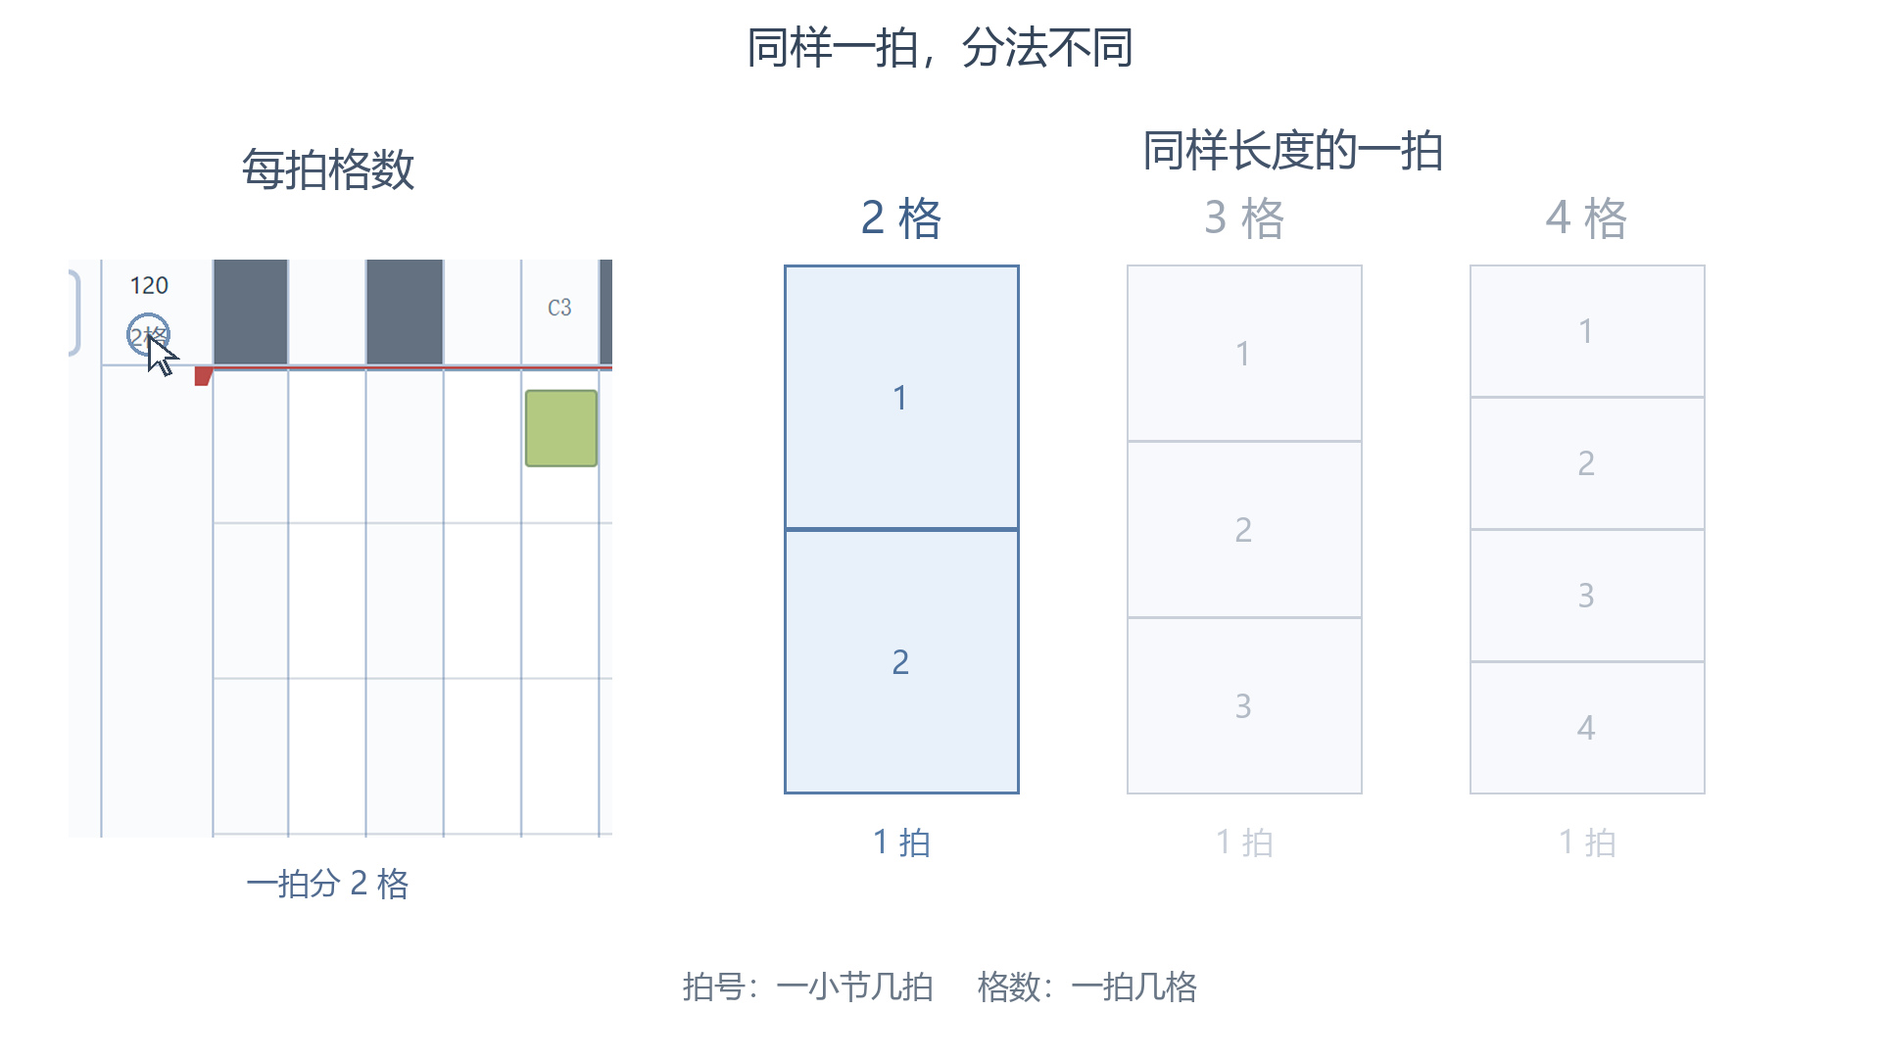
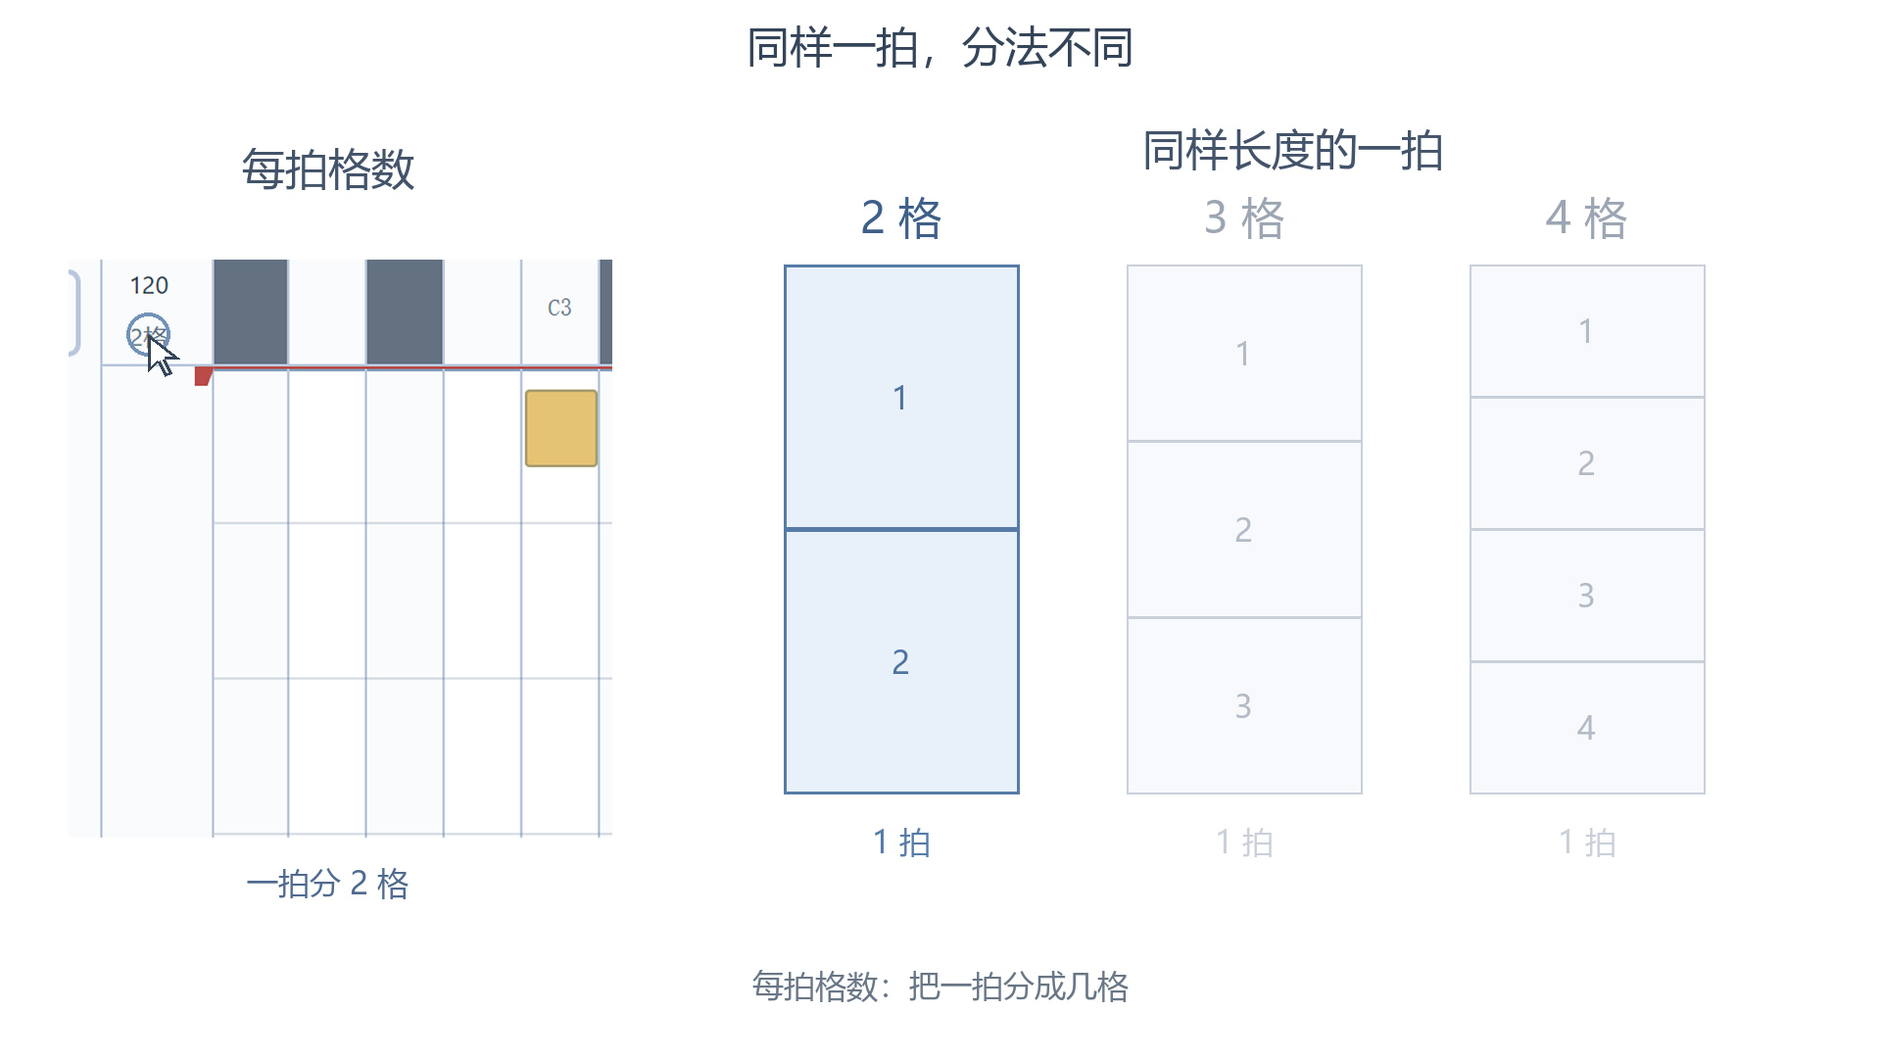
Load the authored starter score and simplify animated editing guides

Changed region(s): [[0.3438, 0.9167, 0.6562, 0.9472], [0.2812, 0.3667, 0.3438, 0.4583]]

diff --git a/src/workstation/app/web-demo.ts b/src/workstation/app/web-demo.ts
@@ -1,9 +1,11 @@
 import { createWebDemoModel, WEB_MAX_FILE_BYTES } from './web-demo-model.ts';
+import { createWebExampleModel } from './web-demo-example.ts';
+import starterExample from '../../../website/examples/starter.json';
 import { createMidiProjectLibrary } from './midi-project.ts';
 import { mountMelodyWorkspace } from '../modules/ui-rendering/melody-workspace.ts';
 import { createPhraseCompositionTransport } from '../modules/ui-rendering/phrase-composition-transport.ts';
 import { createBrowserSoundRuntime } from '../modules/sound-runtime/public.ts';
-import { phraseDurationSeconds } from '../contracts/phrase-time.ts';
+import { phraseDurationSeconds, phraseBeatSeconds, phraseHeldSeconds } from '../contracts/phrase-time.ts';
 import type { PhraseBody } from '../contracts/phrase.ts';
 import type { PlaylistTransportState } from '../modules/ui-rendering/playlist-transport.ts';
 import './web-demo.css';
@@ -33,13 +35,14 @@ app.innerHTML = `<section class="web-studio" aria-label="简乐在线编曲">
 const q = <T extends HTMLElement = HTMLElement>(selector: string) => app.querySelector<T>(selector)!;
 const name = q<HTMLInputElement>('.web-name'), play = q<HTMLButtonElement>('.web-play');
 const status = q('.web-status'), file = q<HTMLInputElement>('.web-file');
-let model = createWebDemoModel();
+let model = createWebExampleModel(starterExample);
 let runtime = webSound();
 let editor: ReturnType<typeof mountMelodyWorkspace> | undefined;
 let transport: ReturnType<typeof createPhraseCompositionTransport> | undefined;
 let state: PlaylistTransportState = { playing: false, preparing: false, position: 0, rate: 1 };
 let temporary: PhraseBody | undefined, family: string | undefined;
 let dirty = false, busy = false, frame = 0, disposed = false;
+let showStarter = true;
 
 function webSound() {
   const sound = createBrowserSoundRuntime();
@@ -83,6 +86,19 @@ function planBody() {
   return family ? { ...body, parts: body.parts.filter(part => part.id === family) } : body;
 }
 
+function starterViewport() {
+  if (!showStarter) return undefined;
+  const body = model.score.read().body!, notes = body.parts.flatMap(part => part.notes);
+  if (!notes.length) return undefined;
+  const keys = model.score.keyboard();
+  const indices = notes.map(note => keys.reduce((best, key, index) =>
+    Math.abs(key.frequencyHz - note.frequencyHz) < Math.abs(keys[best]!.frequencyHz - note.frequencyHz) ? index : best, 0));
+  const first = Math.max(0, Math.min(...indices) - 3), last = Math.min(keys.length, Math.max(...indices) + 4);
+  const rowHeight = Math.max(12, Math.min(32, (q('.web-workspace').clientWidth - 140) / (last - first)));
+  const end = Math.max(...notes.map(note => phraseBeatSeconds(body, note.startBeat) + phraseHeldSeconds(body, note)));
+  return { leftSeconds: 0, zoom: 8 / Math.max(2, end + .4), rowHeight, top: first * rowHeight };
+}
+
 function mount() {
   model.subscribeEdit(changed);
   name.value = model.score.read().draft!.name;
@@ -97,6 +113,7 @@ function mount() {
   });
   editor = mountMelodyWorkspace(q('.web-workspace'), {
     phrase: model.score, sound: runtime, orientation: 'vertical', includeAllSections: true,
+    initialViewport: starterViewport(),
     initialSelection: !model.score.read().body!.parts.some(part => part.notes.length) && model.score.read().body!.parts[0]
       ? { partId: model.score.read().body!.parts[0]!.id } : undefined,
     gridBpm: () => model.score.read().body!.tempoBpm,
@@ -116,7 +133,7 @@ async function replace(next: ReturnType<typeof createWebDemoModel>) {
   cancelAnimationFrame(frame);
   // Dispose the old view before switching model closures or the audio boundary.
   editor?.dispose(); transport?.dispose(); await runtime.dispose();
-  model = next; runtime = webSound(); editor = undefined; transport = undefined;
+  model = next; showStarter = false; runtime = webSound(); editor = undefined; transport = undefined;
   family = undefined; temporary = undefined; state = { playing: false, preparing: false, position: 0, rate: 1 };
   dirty = false; mount();
 }
@@ -217,7 +234,7 @@ name.addEventListener('blur', () => {
 name.addEventListener('keydown', event => { if (event.key === 'Enter') name.blur(); if (event.key === 'Escape') { name.value = model.score.read().draft!.name; name.blur(); } });
 q('.web-help').addEventListener('click', () => {
   const dialog = document.createElement('dialog'); dialog.className = 'web-dialog';
-  dialog.innerHTML = `<h2>在线编曲</h2><p>左侧 + 选择音色。选中音符组后，点击或拖动画布写音符；拖动音符移动位置，拖动尾端改变长度，右键删除。</p><p>滚轮上下移动，Shift 左右移动，Ctrl 缩放。悬停选中音符时，滚轮微调时长。选中音符组时只播放这一组；右键空白处取消选中，可听完整音乐。</p><p>左侧 BPM 数字可调整速度和敲击定速；下方 + 新建速度段，拖动段边界调整长度。网页版总长最多 64 拍。</p><p>草稿只在当前页面内存中。请使用“下载工程”保存；刷新或关闭会丢失尚未下载的内容。打开按钮支持 MIDI 和小型工程；超出音色范围时会使用网页版音色替代。</p><p>音色为 GeneralUser GS 2.0.3 的裁剪版本，保留原始录音及播放规则。<a href="instruments/generaluser-gs-2.0.3/LICENSE.txt" target="_blank" rel="noopener">音源许可与来源说明</a> · <a href="instruments/generaluser-gs-2.0.3/spessasynth_core-LICENSE.txt" target="_blank" rel="noopener">播放内核许可</a></p><form method="dialog"><button>知道了</button></form>`;
+  dialog.innerHTML = `<h2>在线编曲</h2><p>左侧 + 选择音色。选中音符组后，点击或拖动画布写音符；拖动音符移动位置，拖动尾端改变长度，右键删除。</p><p>滚轮上下移动，Shift 左右移动，Ctrl 缩放。悬停选中音符时，滚轮微调时长。选中音符组时只播放这一组；右键空白处取消选中，可听完整音乐。</p><p>左侧 BPM 数字可调整速度和敲击定速；下方 + 新建速度段，拖动段边界调整长度。网页版总长最多 64 拍。</p><p>每次打开先载入示例。请使用“下载工程”保存自己的修改；刷新后会回到示例。打开按钮支持 MIDI 和小型工程；超出音色范围时会使用网页版音色替代。</p><p>音色为 GeneralUser GS 2.0.3 的裁剪版本，保留原始录音及播放规则。<a href="instruments/generaluser-gs-2.0.3/LICENSE.txt" target="_blank" rel="noopener">音源许可与来源说明</a> · <a href="instruments/generaluser-gs-2.0.3/spessasynth_core-LICENSE.txt" target="_blank" rel="noopener">播放内核许可</a></p><form method="dialog"><button>知道了</button></form>`;
   dialog.addEventListener('close', () => dialog.remove(), { once: true }); app.append(dialog); dialog.showModal();
 });
 
@@ -240,4 +257,4 @@ window.addEventListener('message', event => {
 });
 window.addEventListener('pagehide', () => { disposed = true; cancelAnimationFrame(frame); editor?.dispose(); transport?.dispose(); void runtime.dispose(); });
 
-try { mount(); } catch (error) { report(error); }
+try { mount(); report('示例已载入，可以直接播放或编辑。'); } catch (error) { report(error); }

diff --git a/website/index.html b/website/index.html
@@ -9,8 +9,8 @@
   <meta property="og:url" content="https://fr-42.github.io/RootSound/">
   <link rel="canonical" href="https://fr-42.github.io/RootSound/">
   <link rel="icon" href="assets/icon.svg" type="image/svg+xml">
-  <link rel="stylesheet" href="styles.css?v=4">
-  <script src="site.js?v=4" defer></script>
+  <link rel="stylesheet" href="styles.css?v=5">
+  <script src="site.js?v=5" defer></script>
   <title>简乐</title>
 </head>
 <body>
@@ -30,13 +30,13 @@
         <button class="guide-motion" type="button" aria-label="停止动图" aria-pressed="false" title="停止动图"><svg viewBox="0 0 20 20" aria-hidden="true"><path d="M7 5v10M13 5v10"/></svg></button>
       </div>
       <div class="guide-deck">
-        <div class="guide-stage" aria-live="off"><img class="guide-image" src="guides/add-voice.jpg?v=4" width="1920" height="1080" alt="添加长笛，在卷帘中写下音符，再向下拉长。"></div>
+        <div class="guide-stage" aria-live="off"><img class="guide-image" src="guides/add-voice.jpg?v=5" width="1920" height="1080" alt="添加长笛，在卷帘中写下音符，再向下拉长。"></div>
         <button class="guide-turn guide-back" type="button" aria-label="向前翻页"><svg viewBox="0 0 24 24" aria-hidden="true"><path d="m14 6-6 6 6 6"/></svg></button>
         <button class="guide-turn guide-next" type="button" aria-label="向后翻页"><svg viewBox="0 0 24 24" aria-hidden="true"><path d="m10 6 6 6-6 6"/></svg></button>
       </div>
       <div class="guide-footer"><div class="guide-dots" role="group" aria-label="选择演示"></div><span class="guide-count" aria-live="polite">1 / 5</span></div>
     </section>
-    <iframe class="music-editor" src="play/" title="简乐在线编曲" allow="autoplay"></iframe>
+    <iframe class="music-editor" src="play/?v=5" title="简乐在线编曲" allow="autoplay"></iframe>
     <nav class="downloads" aria-label="下载简乐">
       <a class="platform-download" data-platform="windows" href="https://github.com/FR-42/RootSound/releases/download/preview261103/RootSound-Windows-x64-0.1.0-preview.3.zip" aria-label="下载 Windows 64 位版">
         <svg class="platform-icon" viewBox="0 0 24 24" aria-hidden="true"><path d="m2 4 9-1v8H2zm11-1.3L23 1v10H13zM2 13h9v8l-9-1zm11 0h10v10l-10-1.7z"/></svg>

diff --git a/src/workstation/app/web-demo-example.ts b/src/workstation/app/web-demo-example.ts
@@ -1,0 +1,37 @@
+import { createWebDemoModel, checkWebScore, WEB_TONES } from './web-demo-model.ts';
+import { readPhraseBody } from '../modules/phrase/public.ts';
+import type { PhraseBody, PhrasePart } from '../contracts/phrase.ts';
+
+type Model = ReturnType<typeof createWebDemoModel>;
+export type WebExample = {
+  format: 'RootSoundWebExample'; version: 1; name: string;
+  body: Omit<PhraseBody, 'parts'> & { parts: Array<Omit<PhrasePart, 'timbreId'> & { tone: typeof WEB_TONES[number] }> };
+};
+
+/** Share the exact score without duplicating embedded recordings or local paths. */
+export function webExampleSnapshot(model: Model): WebExample {
+  const view = model.score.read();
+  const body = structuredClone(view.body!);
+  return { format: 'RootSoundWebExample', version: 1, name: view.draft!.name,
+    body: { ...body, parts: body.parts.map(({ timbreId, ...part }) => {
+      const voice = model.palette.find(tone => tone.id === timbreId);
+      if (!voice) throw new Error('示例包含网页版未提供的音色。');
+      return { ...part, tone: voice.key as typeof WEB_TONES[number] };
+    }) } };
+}
+
+/** Each visitor receives a fresh editable document; edits never rewrite the example. */
+export function createWebExampleModel(input: unknown, fetcher: typeof fetch = globalThis.fetch): Model {
+  const example = input as WebExample;
+  if (example?.format !== 'RootSoundWebExample' || example.version !== 1 || typeof example.name !== 'string')
+    throw new Error('网页示例格式无效。');
+  const model = createWebDemoModel(undefined, example.name, fetcher);
+  const body = readPhraseBody({ ...example.body, parts: example.body.parts.map(({ tone, ...part }) => {
+    const voice = model.palette.find(voice => voice.key === tone);
+    if (!voice) throw new Error('示例包含网页版未提供的音色。');
+    return { ...part, timbreId: voice.id };
+  }) });
+  checkWebScore(body);
+  model.library.updateDraft(model.score.read().draft!.id, { body, dependencies: [...new Set(body.parts.map(part => part.timbreId))] });
+  return model;
+}

diff --git a/tests/workstation.web-demo.test.ts b/tests/workstation.web-demo.test.ts
@@ -3,6 +3,7 @@ import { test } from 'node:test';
 import { readFile, writeFile, mkdir } from 'node:fs/promises';
 import path from 'node:path';
 import { createWebDemoModel, WEB_TONES } from '../src/workstation/app/web-demo-model.ts';
+import { createWebExampleModel, webExampleSnapshot } from '../src/workstation/app/web-demo-example.ts';
 import { createInitialProjectLibrary } from '../src/workstation/app/project-setup.ts';
 import { createMidiProjectLibrary } from '../src/workstation/app/midi-project.ts';
 import { loadSoundFont, SoundFontStream } from '../src/workstation/modules/sound-runtime/soundfont-engine.ts';
@@ -82,4 +83,19 @@ test('trimmed SF2 retains nonzero full-engine output for every offered voice', a
     assert(left.every(Number.isFinite));
     assert(left.some(sample => Math.abs(sample) > .001), JSON.stringify(voice));
   }
+});
+
+
+test('published starter retains the authored 40 notes and timing while each visit is independent', async () => {
+  const snapshot = JSON.parse(await readFile('website/examples/starter.json', 'utf8'));
+  const model = createWebExampleModel(snapshot, fetcher);
+  assert.deepEqual(webExampleSnapshot(model), snapshot);
+  assert.equal(model.score.read().body!.tempoBpm, 148);
+  assert.equal(model.score.read().body!.parts.flatMap(part => part.notes).length, 40);
+  const part = model.score.read().body!.parts[0]!;
+  model.score.removeNote(part.id, part.notes[0]!.id);
+  assert.equal(model.score.read().body!.parts.flatMap(part => part.notes).length, 39);
+  assert.deepEqual(webExampleSnapshot(createWebExampleModel(snapshot, fetcher)), snapshot);
+  const saved = createWebDemoModel(await model.save(), undefined, fetcher);
+  assert.equal(saved.score.read().body!.parts.flatMap(part => part.notes).length, 39);
 });

diff --git a/website/site.js b/website/site.js
@@ -129,7 +129,7 @@
   describeMotion();
   void (async () => {
     try {
-      const response = await fetch('guides/lessons.json?v=4');
+      const response = await fetch('guides/lessons.json?v=5');
       if (!response.ok) throw new Error('Guide unavailable');
       lessons = await response.json();
       for (const [index, lesson] of lessons.entries()) {

diff --git a/scripts/encode-operation-guides.py b/scripts/encode-operation-guides.py
@@ -2,7 +2,7 @@
 from pathlib import Path
 from PIL import Image, ImageDraw, ImageFont
 import json, sys
-root=Path(sys.argv[1]) if len(sys.argv)>1 else Path(json.loads(Path('.test-output/rb134/latest.json').read_text())['root'])
+root=Path(sys.argv[1]) if len(sys.argv)>1 else Path(json.loads(Path('.test-output/rb135/latest.json').read_text())['root'])
 manifest=json.loads((root/'manifest.json').read_text(encoding='utf-8'))
 out=Path('website/guides');out.mkdir(parents=True,exist_ok=True)
 font=ImageFont.truetype('C:/Windows/Fonts/msyh.ttc',44)
@@ -59,7 +59,7 @@ def compose(raw,scene,previous,t):
                     d.text((x+ww/2,(a+b)/2),str(cell+1),font=small,fill='#4e739e' if active else '#b2bac5',anchor='mm')
                 d.text((x+ww/2,858),'1 拍',font=small,fill=color,anchor='mm')
             d.text((335,900),f"一拍分 {m['steps']} 格",font=small,fill='#506b8f',anchor='mm')
-            d.text((W/2,1005),'拍号：一小节几拍     格数：一拍几格',font=small,fill='#697686',anchor='mm')
+            d.text((W/2,1005),'每拍格数：把一拍分成几格',font=small,fill='#697686',anchor='mm')
         return frame
     c={k:mix(previous['camera'][k],scene['camera'][k],t) for k in ['cx','cy','w']}
     h=min(564,c['w']*PH/PW);left=max(0,min(1200-c['w'],c['cx']-c['w']/2));top=max(56,min(620-h,c['cy']-h/2))
@@ -74,7 +74,8 @@ cached={c['id']:c for c in json.loads((out/'lessons.json').read_text(encoding='u
 lessons=[];expected={'lessons.json'}
 for chapter in manifest['lessons']:
     identity=chapter['id'];expected.update(identity+suffix for suffix in ['.jpg','.webp'])
-    if selected and identity not in selected:lessons.append(cached[identity]);continue
+    if selected and identity not in selected:
+        lessons.append(cached[identity]|{k:chapter[k] for k in ['id','title','description','alt','version']});continue
     scenes=chapter['frames'];previous=scenes[0];clock=0;number=0;frames=[];durations=[]
     for scene in scenes:
         with Image.open(root/scene['file']) as source:raw=source.convert('RGB')

diff --git a/docs/WEBSITE.md b/docs/WEBSITE.md
@@ -7,7 +7,7 @@ Windows／Mac 下载卡片，下方内容按用户要求加入真正可操作的
 
 钢琴卷帘上方直接显示一叠动图书页，可通过
 <https://fr-42.github.io/RootSound/#guide> 定位。五页聚焦添加音色、BPM／敲击定速、
-每拍格数、横向缩放、竖向缩放。页面只有短标题、一句提示、小圆点和页码，没有
+每拍格数、横竖缩放合页、选中／添加／取消选中后拖动画布。页面只有短标题、一句提示、小圆点和页码，没有
 视频播放器、下载视频或长篇步骤。使用左右方向键、边缘小箭头、圆点或横向轻扫
 翻页；不会自动切页。翻页采用轻微立体旋转、位移和淡出，420ms结束，连续快翻
 只保留当前页与退出页，避免堆积或旧图片覆盖新页。
@@ -17,18 +17,32 @@ Windows／Mac 下载卡片，下方内容按用户要求加入真正可操作的
   图片解码后再翻页，避免空白闪烁。离开视口／后台标签时切回静态封面；可用小图标
   停止或重启动图。系统偏好减少动态时默认静态、翻页无动画，仍可手动启动动图。
 - 横向缩放：Ctrl＋Shift＋滚轮；竖向缩放：Ctrl＋滚轮。Mac也支持⌘。
-  格数页对照同样长度的一拍分成2／3／4格，明确区分格数与拍号；4/4也能每拍分3格。
+  格数页只讲同样一拍分成2／3／4格，按用户最新要求去掉拍号说明。
   BPM页左边调速、右边实际卷帘，时间缩放始终固定256px/秒，并标注相邻拍线距离、
   每拍秒数；敲击定速实际发送空格键，按500ms节奏得到120BPM。不播放声音。
   添加音色页接着在卷帘写一个音符、拖其下边缘延长，断言音符数量与时长实际改变。
 - 生成器 `node scripts/render-operation-guides.mjs` 在始终隐藏的离屏真实编辑器中
-  生成230个双倍像素操作状态，再用 `python scripts/encode-operation-guides.py` 合成五页动图，
+  生成266个双倍像素操作状态，再用 `python scripts/encode-operation-guides.py` 合成五页动图，
   不再产出视频／音轨／字幕文件。仅教学构建暴露模型用于自建数据和实际改速／缩放
   断言，正式网页没有此入口。不拍用户桌面、不使用真实文件选择器／声卡，不读歌曲。
   需要本机Electron缓存、Pillow及Windows微软雅黑字体；无需FFmpeg。
 - `website/guides/` 只保留五页WebP／封面及清单；生成器和网站构建都清除旧教程
-  素材，旧视频不进入发布目录。页面脚本／样式／媒体带v4参数，避免旧版本缓存。
-  原始操作帧和验证证据在.test-output/rb134/，不公开上传。
+  素材，旧视频不进入发布目录。页面脚本／样式／媒体带v5参数，避免旧版本缓存。
+  原始操作帧和验证证据在.test-output/rb135/，不公开上传。
+
+## 默认示例
+
+用户提供当前Chrome页面下载的工程，含40个钢琴音符、148BPM。原文件只读保留；
+`website/examples/starter.json`保存音符／时长／速度段与音色类别，不携带本机路径、
+历史或重复PCM，7610字节。`web-demo-example.ts`为每次访问创建独立的项目和音色引用；
+逐项核对原始音符及实际音频执行参数完全一致。启动时自动展开音高／时间范围，
+桌面首屏可看到完整40音符。每次加载恢复这个公开示例；“新建”仍创建空白文档，
+访问者的编辑只在内存中，需下载工程保存，不会自动覆盖公开示例。
+
+用户报告同一次播放开头较小。检查本例40音符力度均为0.75、SF2力度95、音色增益0.7，
+没有渐强配置；同音同力度重复测量振幅差<0.6%，未发现源引擎自动升音量。
+原例0.25秒窗口中较强段比开头约高2.4dB，符合音高采样／叠音及余音的差异。
+这是离线信号分析，不能代替用户Chrome／声卡实听；未据此更改音乐动态或公共DSP。
 
 ## 当前网页版
 
@@ -40,8 +54,8 @@ Windows／Mac 下载卡片，下方内容按用户要求加入真正可操作的
   裁剪为五个旋律预设加标准鼓组，原约32.3MB SF2缩减为约8.5MB；首次发声加载，
   不只是隐藏选项。99个约8.3MB WAV仅按工程保存需要加载，完整许可随站点保留。
 - 总长最多64拍（默认4/4下16小节）、16个音符组、2048个音符（含隐藏音符）。
-  领域存储适配器在提交前验证，失败不改当前状态。编辑草稿只在页面内存，不自动
-  保存音乐；刷新／离开前提示未下载修改。
+  领域存储适配器在提交前验证，失败不改当前状态。访问者的编辑草稿只在页面内存，不自动
+  保存音乐；刷新／离开前提示未下载修改，刷新后重新载入公开示例。
 - 打开 `.mid`／`.midi`、v2 `.rootsound`、便携 `.rsproject`，限16MiB；超长工程明确
   拒绝，原文件不改。超出八种音色时告知替代，保留音符位置；复杂踏板／弯音等
   MIDI 信息仍受桌面当前导入器的既有边界限制。
